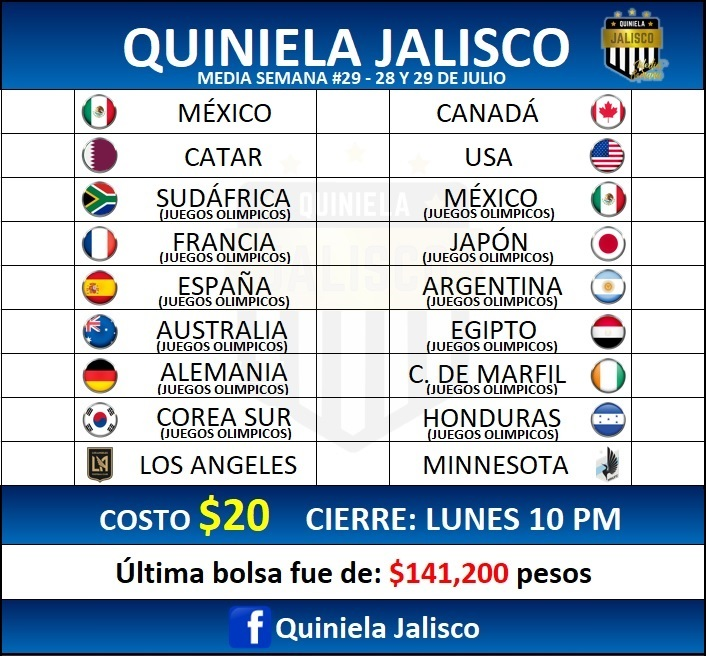
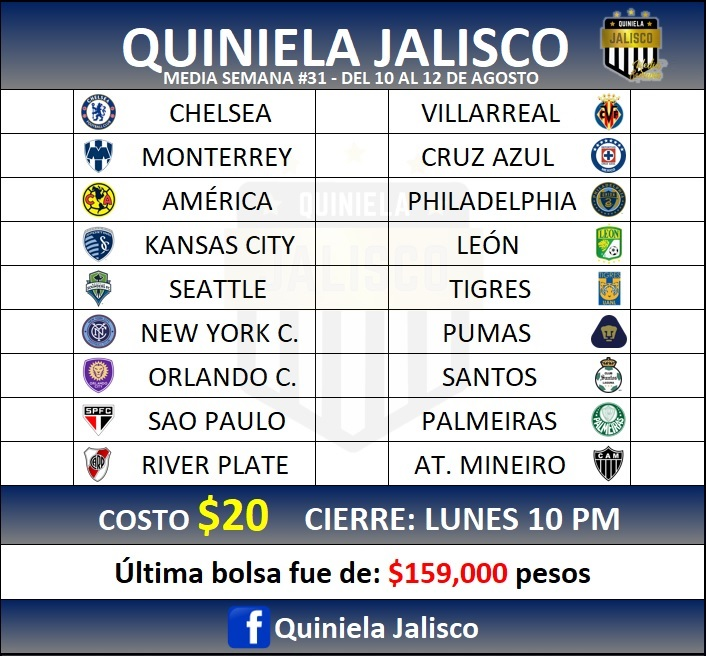
Media Semana #31

diff --git a/media.html b/media.html
@@ -2,23 +2,22 @@
 <html lang="en" translate="no">
 <head>
     <meta charset="UTF-8">
-    <meta name="google" content="notranslate">
     <meta name="viewport" content="width=device-width, initial-scale=1.0, user-scalable=no">
-    <meta name="description" content="¡Registra aquí tus quinielas! - Quiniela Liga MX">
-    <meta name="keywords" content="Quiniela, Liga MX, Apostar, Pronósticos">
-    <title>Quiniela Jalisco</title>
+    <title>Quiniela Jalisco - Media Semana</title>
     <link href="https://fonts.googleapis.com/css2?family=Roboto&display=swap" rel="stylesheet">
-    <link rel="stylesheet" href="10/styles10media.css">
+    <link rel="stylesheet" href="MediaSemana/stylesm.css">
     <link rel="icon" href="MediaSemana/iconm.jpg">
     <link rel="apple-touch-icon" href="MediaSemana/iconm.jpg">
     <link rel="shortcut icon" href="MediaSemana/iconm.jpg" type="image/x-icon">
     <script type="module" src="https://unpkg.com/ionicons@5.1.2/dist/ionicons/ionicons.esm.js"></script>
     <script nomodule="" src="https://unpkg.com/ionicons@5.1.2/dist/ionicons/ionicons.js"></script>
-    <script src="10/main10media.js"></script>
+    <script src="MediaSemana/mainm.js"></script>
 </head>
 
 <body>
-    <p id='bolsa'>¡Se reparte todo el acumulado!<br> Bolsa estimada: <span style="color:yellow">$200,000</span> pesos</p>
+    <<br>
+    <br>
+    <!--<p style='color:white;text-align:center'>Bolsa estimada: <span style="color:yellow">+$200,000 pesos</span></p>-->
     <div class="quiniela" id="quiniela">
         <div class="aux"><h3 style="padding: 5px 7px" onclick="clean()"><ion-icon name="close-outline"></ion-icon></h3></div>
         <div class="partido">
@@ -84,13 +83,6 @@
             <div id="_"></div>
             <span id="V9" onclick="selection(this)"></span>
         </div>
-	<div class="partido">
-            <span id="L10" onclick="selection(this)"></span>
-            <div id="_"></div>
-            <span id="E10" onclick="selection(this)"></span>
-            <div id="_"></div>
-            <span id="V10" onclick="selection(this)"></span>
-        </div>
         <h1 id="text"></h1>
     </div>
     <table class="botonera">
@@ -126,20 +118,20 @@
                 <td style="width: 23%"></td>
             </tr>
         </table>
-        <!--<script src="https://unpkg.com/ionicons@5.1.2/dist/ionicons.js"></script>-->
+        <script src="https://unpkg.com/ionicons@5.1.2/dist/ionicons.js"></script>
 
         <br><br>
 
     <div>
-    <h4 id="costo">Costo: <span id="costoSpan">$0</span></h4><h4 id="total">Total: $0</h4><br>
+    <h4 id="costo">Costo: $0</h4><h4 id="total">Total: $0</h4><br>
     </div>
     <div>
         <h4 id="numquinielas">0 Quiniela(s)</h4>
     </div>
     <br>
     <!--<p id="display"></p>-->
-    <div id="divaux" translate="no">
-        <table id="display">
+    <div id="divaux">
+        <table id="display" translate="no">
         </table>
     </div>
     <!--<button id="undo" onclick="remove()"><ion-icon name="arrow-undo-outline"></ion-icon></button>-->

diff --git a/MediaSemana/stylesm.css b/MediaSemana/stylesm.css
@@ -89,8 +89,8 @@ h1{
     margin-top: 8%;
     border: solid 1px black;
     border-radius: 0 0 14px 14px;
-    background: -webkit-linear-gradient(0.5turn, rgb(11,103,170)  ,rgb(1,36,100) 80%);
-    background: linear-gradient(0.5turn, rgb(11,103,170)  ,rgb(1,36,100) 80%);
+    background: -webkit-linear-gradient(0.5turn, rgb(121,122,126)  ,rgb(7,39,100) 80%);
+    background: linear-gradient(0.5turn, rgb(121,122,126)  ,rgb(7,39,100) 80%);
     font-size: x-large;
     text-shadow: 3px 3px 3px black;
 }
